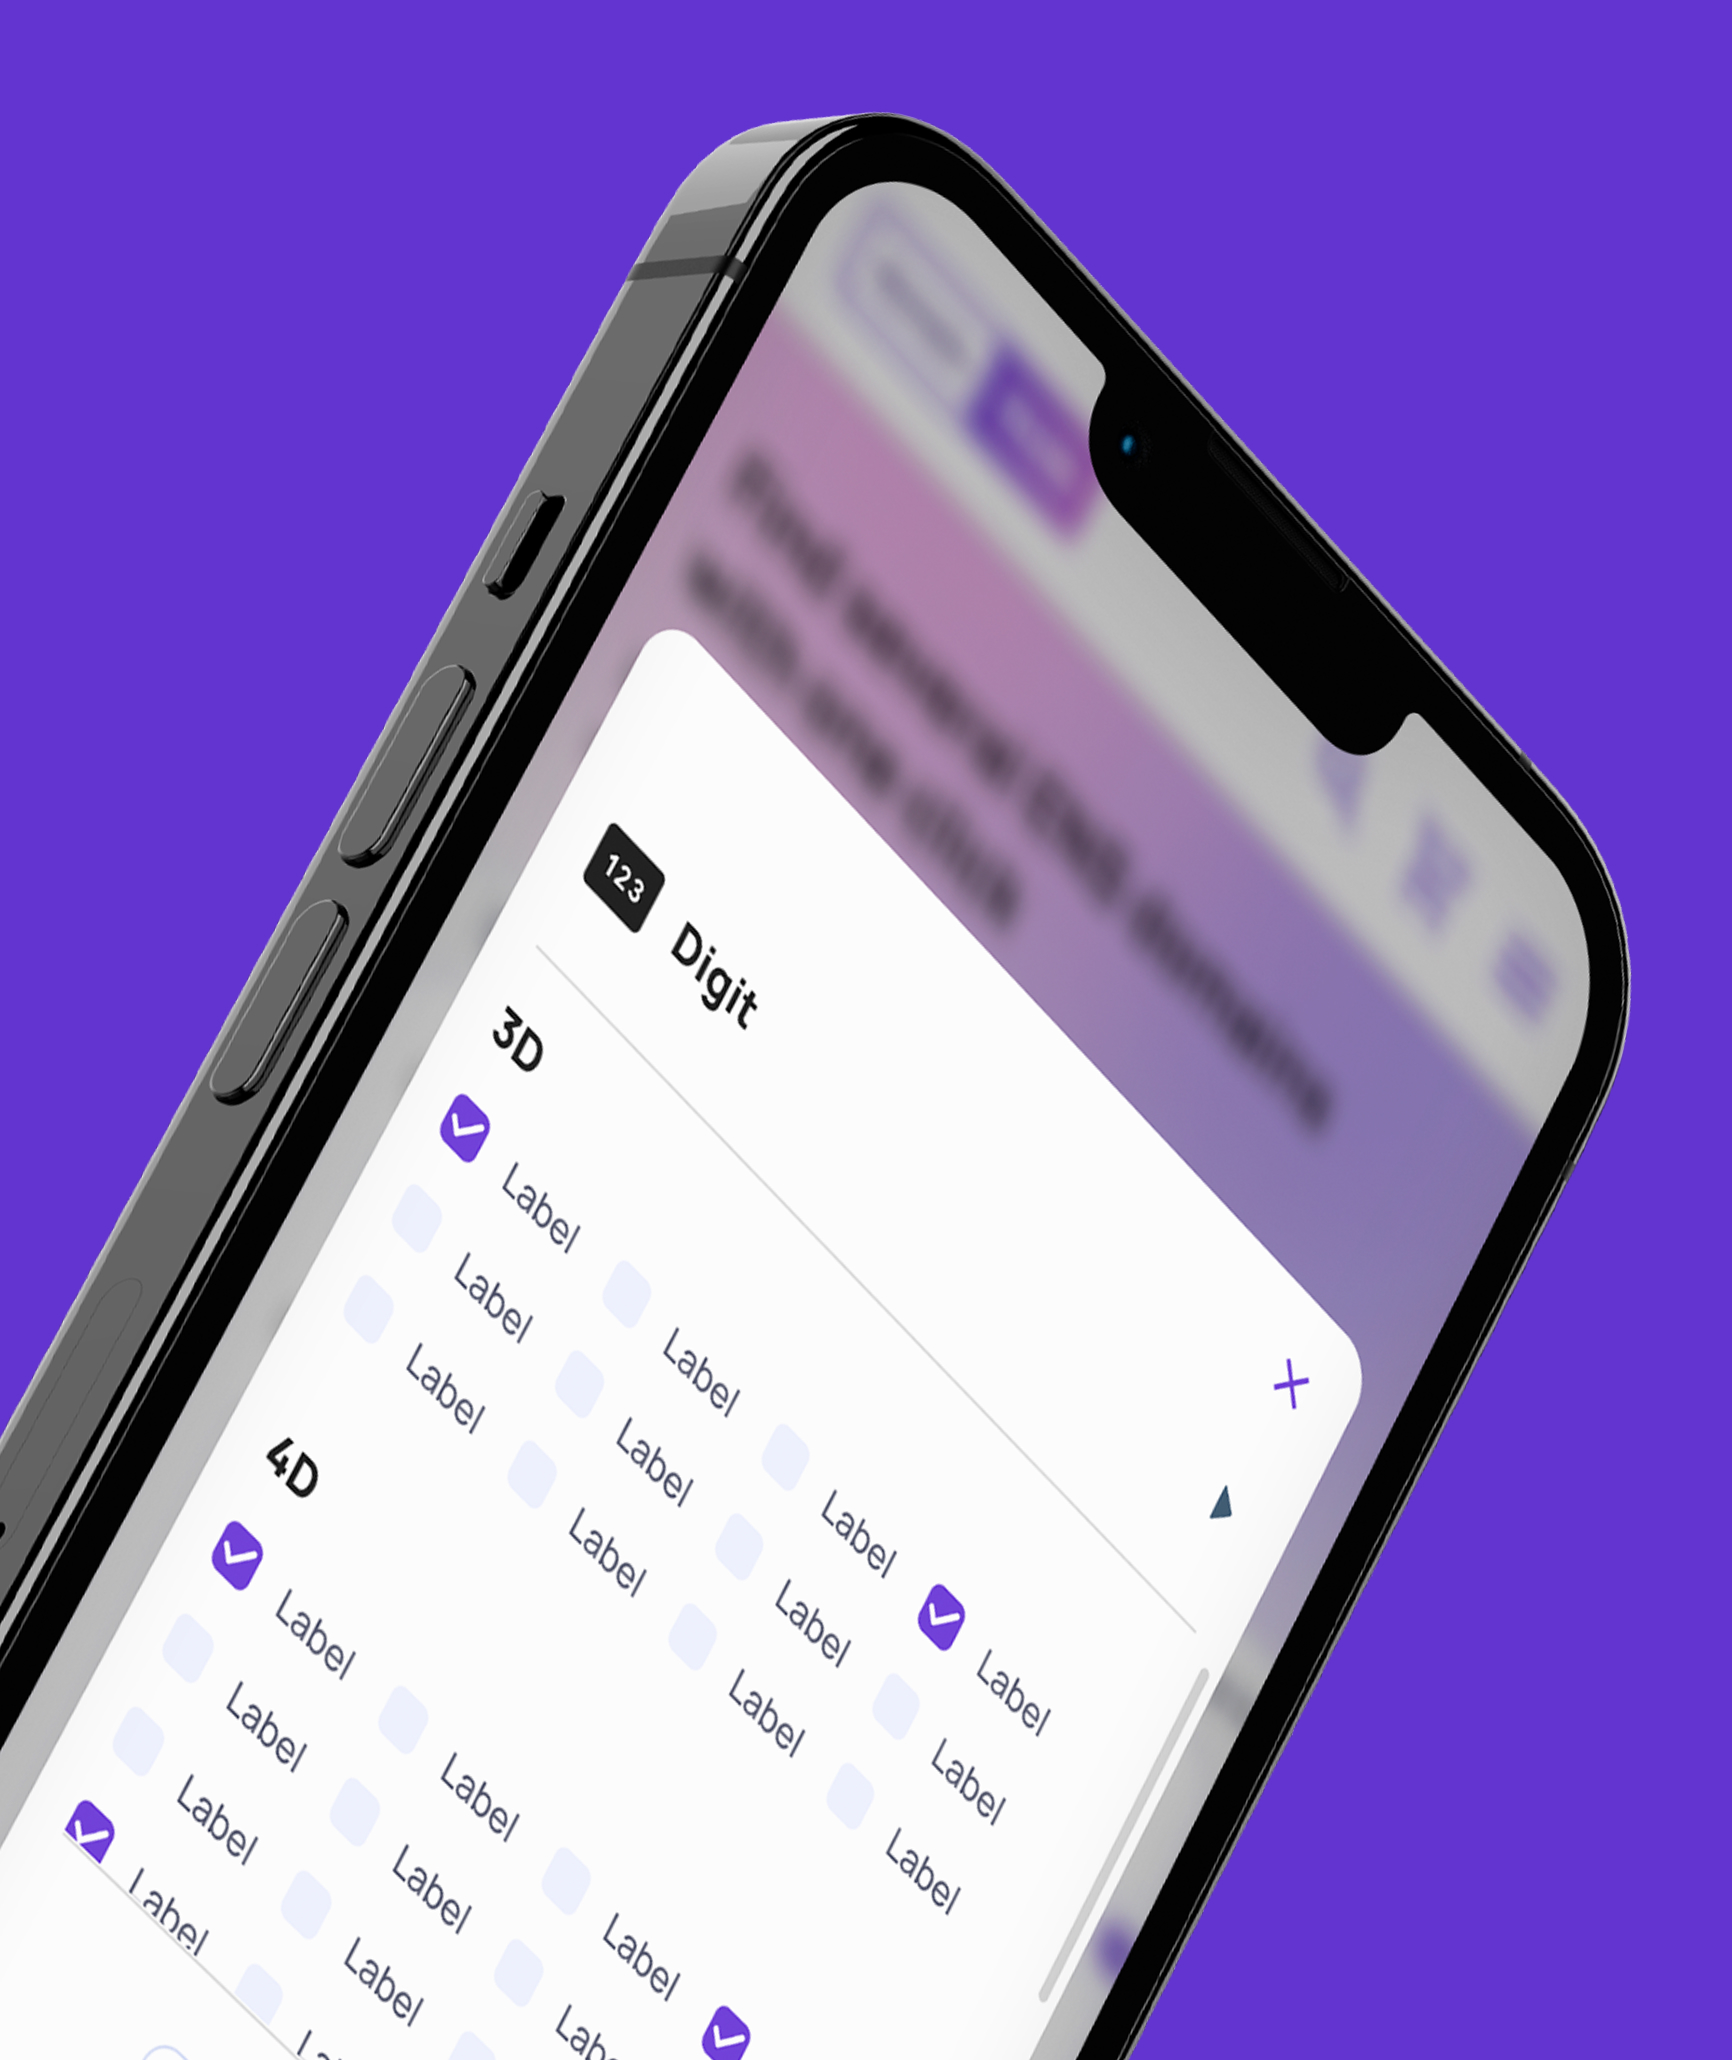
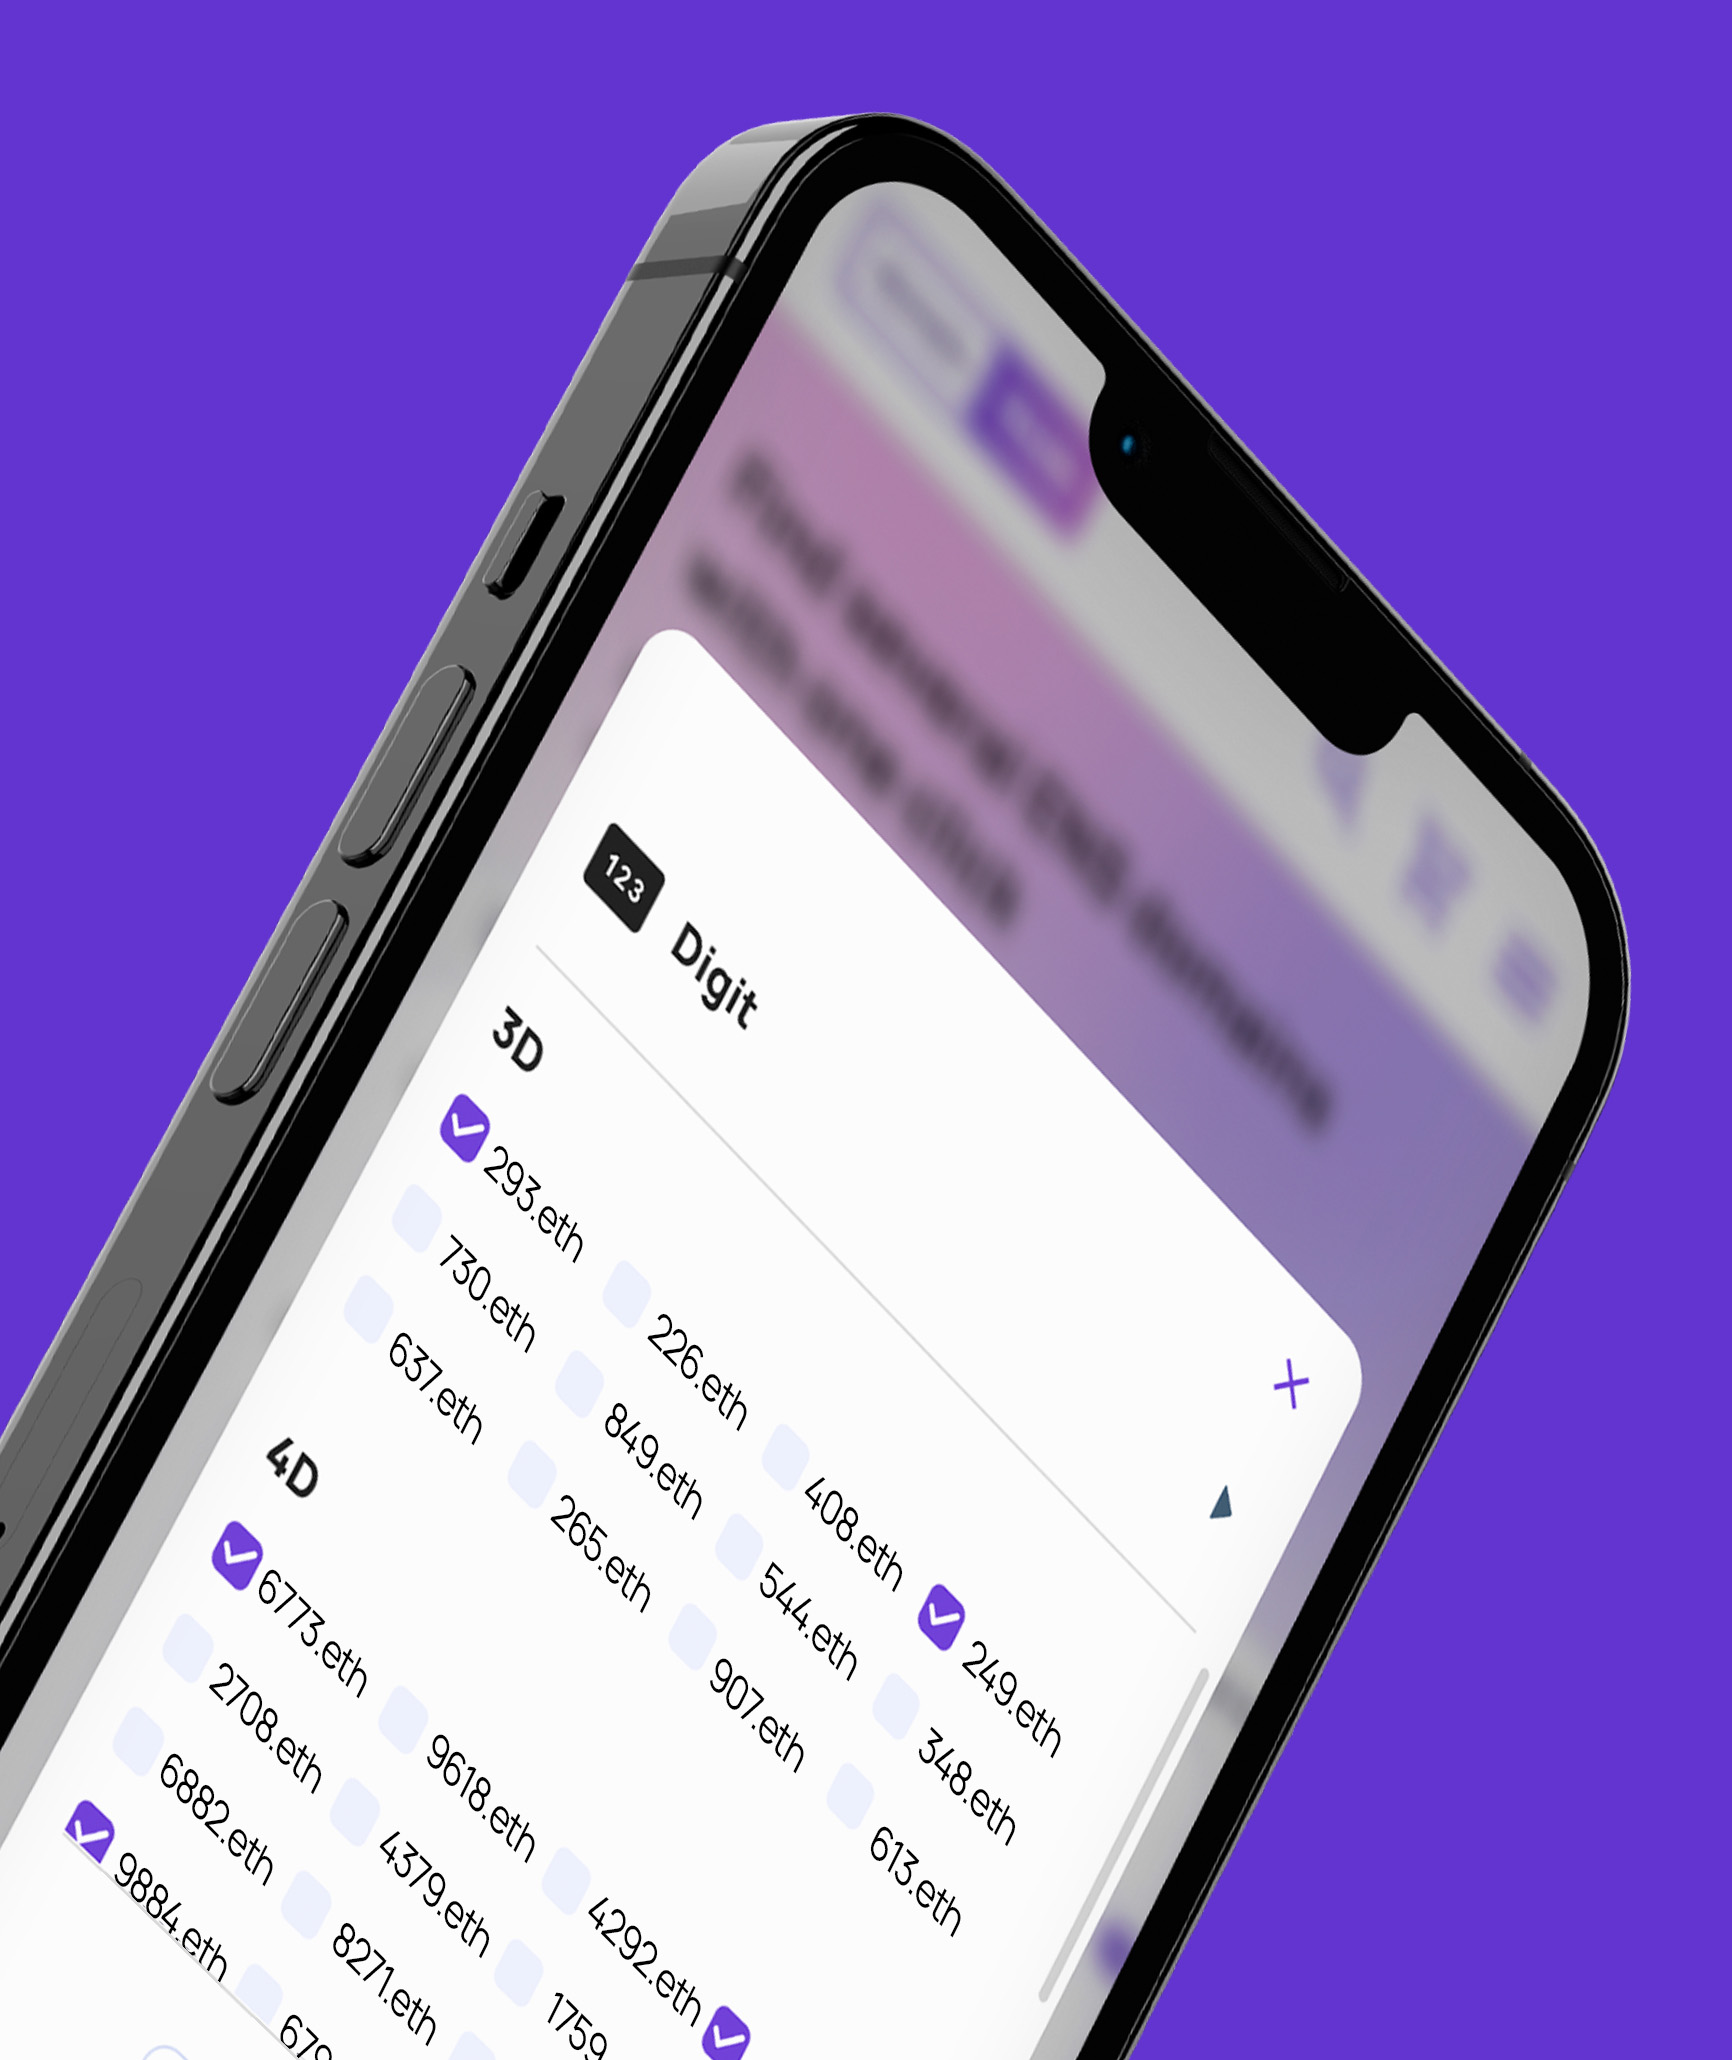
fix(portfolio): preserve work MDX figure dimensions
Disable next-mdx-remote JS stripping so Figure width/height survive compile,
parse dimensions as numbers or strings, tighten DomainPlug result grid spacing,
and refresh DomainPlug result imagery.

diff --git a/src/components/work/work-mdx-components.tsx b/src/components/work/work-mdx-components.tsx
@@ -159,6 +159,15 @@ function Em({ className, ...props }: ComponentPropsWithoutRef<"em">) {
   return <em className={cn("italic", className)} {...props} />;
 }
 
+function parseFigureDimension(value: unknown): number | undefined {
+  if (typeof value === "number" && Number.isFinite(value)) return value;
+  if (typeof value === "string") {
+    const parsed = Number.parseInt(value, 10);
+    return Number.isFinite(parsed) ? parsed : undefined;
+  }
+  return undefined;
+}
+
 interface InlineFigureProps {
   src: string;
   alt: string;
@@ -166,9 +175,9 @@ interface InlineFigureProps {
   /** Aspect ratio of the image container. Defaults to landscape (16/9). */
   aspect?: "portrait" | "square" | "landscape" | "wide";
   /** Intrinsic width for non-standard aspect ratios (e.g. tall flowcharts). Use with height. */
-  width?: number;
+  width?: number | string;
   /** Intrinsic height for non-standard aspect ratios. Use with width. */
-  height?: number;
+  height?: number | string;
   className?: string;
   priority?: boolean;
 }
@@ -190,6 +199,9 @@ function InlineFigure({
   className,
   priority = false,
 }: InlineFigureProps) {
+  const intrinsicWidth = parseFigureDimension(width);
+  const intrinsicHeight = parseFigureDimension(height);
+
   // SVG diagrams: render natively so the viewBox controls proportions.
   // Never use Next.js Image or image-oriented containers (no aspect-ratio,
   // no overflow:hidden, no object-fit) — the browser scales SVG by width alone.
@@ -209,8 +221,8 @@ function InlineFigure({
             <img
               src={src}
               alt={alt}
-              width={width}
-              height={height}
+              width={intrinsicWidth}
+              height={intrinsicHeight}
               className="mx-auto block h-auto w-full max-w-full lg:max-w-[85%]"
               loading={priority ? "eager" : "lazy"}
             />
@@ -225,15 +237,15 @@ function InlineFigure({
     );
   }
 
-  if (width !== undefined && height !== undefined) {
+  if (intrinsicWidth !== undefined && intrinsicHeight !== undefined) {
     return (
       <figure className={cn("my-8 w-full min-w-0", className)}>
         <div className="bg-muted w-full min-w-0 overflow-hidden rounded-xl">
           <Image
             src={src}
             alt={alt}
-            width={width}
-            height={height}
+            width={intrinsicWidth}
+            height={intrinsicHeight}
             priority={priority}
             loading={priority ? undefined : "lazy"}
             sizes="(max-width: 768px) 100vw, (max-width: 1280px) 80vw, 800px"

diff --git a/src/lib/mdx/options.ts b/src/lib/mdx/options.ts
@@ -91,4 +91,11 @@ const compileMdxOptions: CompileOptions = {
 
 export const mdxOptions = {
   mdxOptions: compileMdxOptions,
+  /**
+   * Preserve JSX attribute expressions in MDX (e.g. `width={1920}` on <Figure>).
+   * next-mdx-remote defaults to `blockJS: true`, which runs `removeJavaScriptExpressions`
+   * and strips those attributes — figures then lose intrinsic dimensions and fall back
+   * to fill + default 16/9 aspect. Content is trusted (repo-owned MDX only).
+   */
+  blockJS: false,
 };